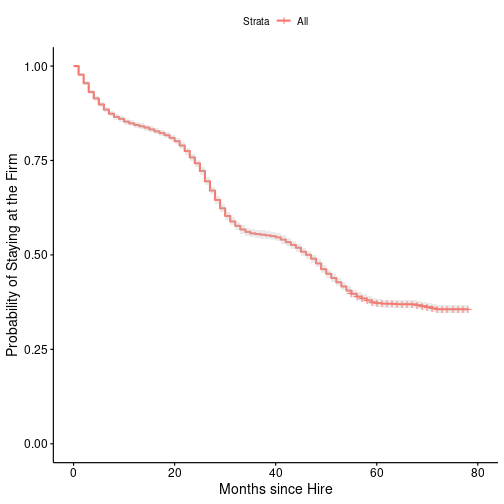
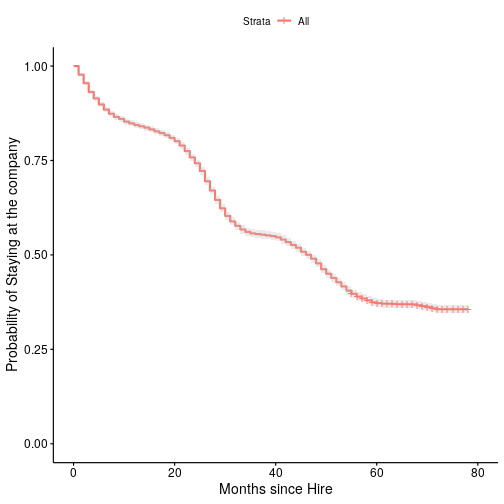
Minor edits

Changed region(s): [[0.0, 0.2679, 0.0595, 0.744], [0.5952, 0.0298, 0.625, 0.0595], [0.506, 0.0298, 0.5357, 0.0595]]

diff --git a/docs/materials/talks/4-advanced_explanatory_methods.html b/docs/materials/talks/4-advanced_explanatory_methods.html
@@ -11,15 +11,9 @@
     <textarea id="source">
 class: center, middle, inverse, title-slide
 
-.title[
 # Advanced Explanatory Methods
-]
-.subtitle[
 ## Survival Analysis
-]
-.author[
 ### <b>rstudio::</b>conf(2022)
-]
 
 ---
 
@@ -64,7 +58,7 @@ What People Analytic questions can survival analysis help answer?
 
 --
 
-  - When will an employee leave the firm? 
+  - When will an employee leave the company? 
   
 --
 
@@ -92,11 +86,11 @@ class: left, middle, rstudio-logo
 
 ## Our Working Example
 
-You are a data scientist working in a People Analytics team at a large tech firm. You have been asked to understand if any of the hiring data the firm collects on its entry level software engineers is predictive of turnover later on. You have access to the firm's Human Resource Information System, which includes:
+You are a data scientist working in a People Analytics team at a large tech company. You have been asked to understand if any of the hiring data the company collects on its entry level software engineers is predictive of turnover later on. You have access to the company's Human Resource Information System, which includes:
 
   - `HIRE_DATE`: The month and year an employee was hired
-  - `TURNOVER_DATE`: The month and year an employee left the firm 
-  - `TURNOVER`: Indicates if an employee left the firm
+  - `TURNOVER_DATE`: The month and year an employee left the company 
+  - `TURNOVER`: Indicates if an employee left the company
   - `REFERRAL`: Employee was referred for hire by an existing employee
   - `PROG_EXER_RATE`: Performance on pre-employment programming exercise
   - `INTPER_RATE`: Score on an interpersonal personality scale
@@ -133,7 +127,7 @@ Events must be:
   - &lt;b&gt;Mutually exclusive&lt;/b&gt;
   - &lt;b&gt;Exhaustive&lt;/b&gt; 
 
-In our example, the event is &lt;b&gt;employee turnover&lt;/b&gt;, which meets the above criteria as an employee is either employed at a given firm or not.
+In our example, the event is &lt;b&gt;employee turnover&lt;/b&gt;, which meets the above criteria as an employee is either employed at a given company or not.
 
 ---
 class: left, middle, rstudio-logo
@@ -165,7 +159,7 @@ class: left, middle, rstudio-logo
 
 ## Do we have censored data?
 
-  - We have employees in our data who have not yet left the firm. 
+  - We have employees in our data who have not yet left the company. 
 
   - This does not mean that they will not leave later on (maybe in another month, two, or a year), it just means that their true event time will be greater than their observed time or &lt;b&gt;right censoring&lt;/b&gt;.
 
@@ -310,7 +304,7 @@ class: left, middle, rstudio-logo
 
 
 ```
-# A tibble: 6 × 5
+# A tibble: 6 x 5
    TIME N_RISK N_EVENT CENSOR SURVIVAL
   &lt;dbl&gt;  &lt;dbl&gt;   &lt;dbl&gt;  &lt;dbl&gt;    &lt;dbl&gt;
 1     1   8000     182      0    0.977
@@ -333,7 +327,7 @@ survminer::ggsurvplot(
   pval = TRUE,
   conf.int = TRUE,
   xlab = "Months since Hire",
-  ylab = "Probability of Staying at the Firm"
+  ylab = "Probability of Staying at the company"
 )
 ```
 
@@ -555,7 +549,7 @@ Mixed-Effect Regression (MER) models as a more flexible class of generalized lin
 The advantage they have over GLMs (both simple and multiple) is that they allow you to directly model dependencies among your model residuals that arise due to the design characteristics of your data.  
 
 Common designs that lead to dependent residuals: 
-  - Clustered Data (Our focus today)
+  - Clustered Data
   - Crossed Data
 
 ---
@@ -597,10 +591,16 @@ class: left, middle, rstudio-logo
 
 ## Multinomial Logistic Regression Models: A Conceptual Understanding
 
-Your firm offers three different health insurance plans (A, B, and C) and would like to understand what motivates an employee to choose one plan over another. To answer this question, you could use multinomial logistic regression, which allows you to fit a single model that estimates the effects of one or more predictors on choosing B over A (reference category) and C over A (reference category).
+Your company offers three different health insurance plans (A, B, and C) and would like to understand what motivates an employee to choose one plan over another. To answer this question, you could use multinomial logistic regression, which allows you to fit a single model that estimates the effects of one or more predictors on choosing B over A (reference category) and C over A (reference category).
 
 `$$\ln(\frac{P(y = B)}{P(y = A)}) = X\beta$$`
 `$$\ln(\frac{P(y = C)}{P(y = A)}) = X\alpha$$`
+
+---
+
+class: left, middle, rstudio-logo
+
+# &amp;#128564; R&amp;R Time!  See you tomorrow! 	&amp;#128719;
     </textarea>
 <style data-target="print-only">@media screen {.remark-slide-container{display:block;}.remark-slide-scaler{box-shadow:none;}}</style>
 <script src="https://remarkjs.com/downloads/remark-latest.min.js"></script>
@@ -648,19 +648,6 @@ if (window.HTMLWidgets) slideshow.on('afterShowSlide', function (slide) {
     deleted = true;
   });
 })();
-// add `data-at-shortcutkeys` attribute to <body> to resolve conflicts with JAWS
-// screen reader (see PR #262)
-(function(d) {
-  let res = {};
-  d.querySelectorAll('.remark-help-content table tr').forEach(tr => {
-    const t = tr.querySelector('td:nth-child(2)').innerText;
-    tr.querySelectorAll('td:first-child .key').forEach(key => {
-      const k = key.innerText;
-      if (/^[a-z]$/.test(k)) res[k] = t;  // must be a single letter (key)
-    });
-  });
-  d.body.setAttribute('data-at-shortcutkeys', JSON.stringify(res));
-})(document);
 (function() {
   "use strict"
   // Replace <script> tags in slides area to make them executable
